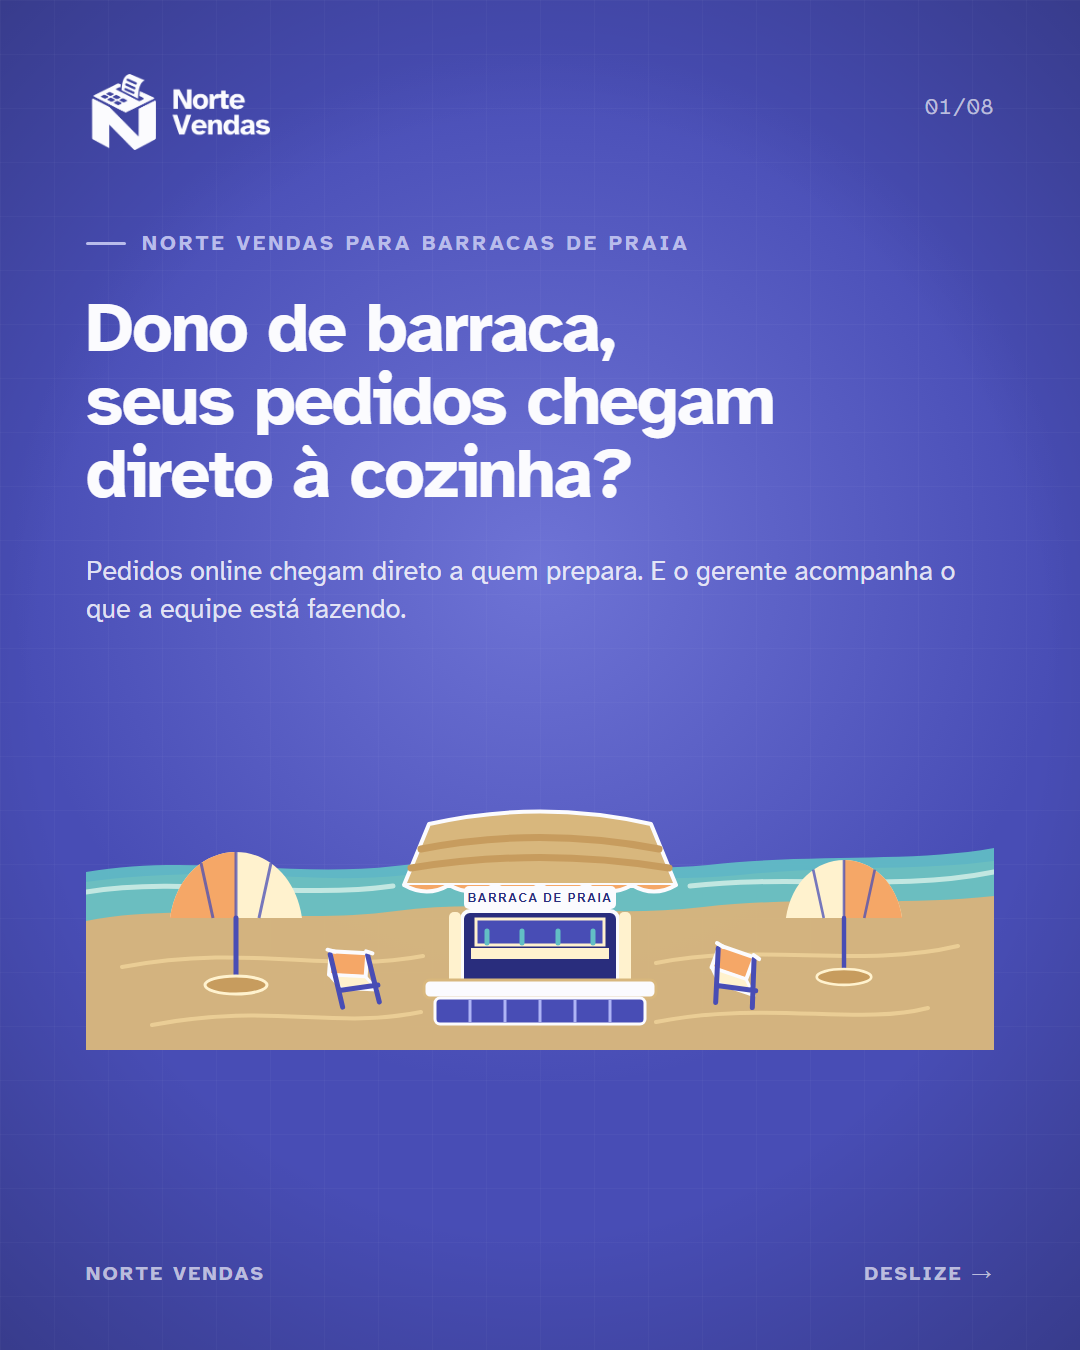
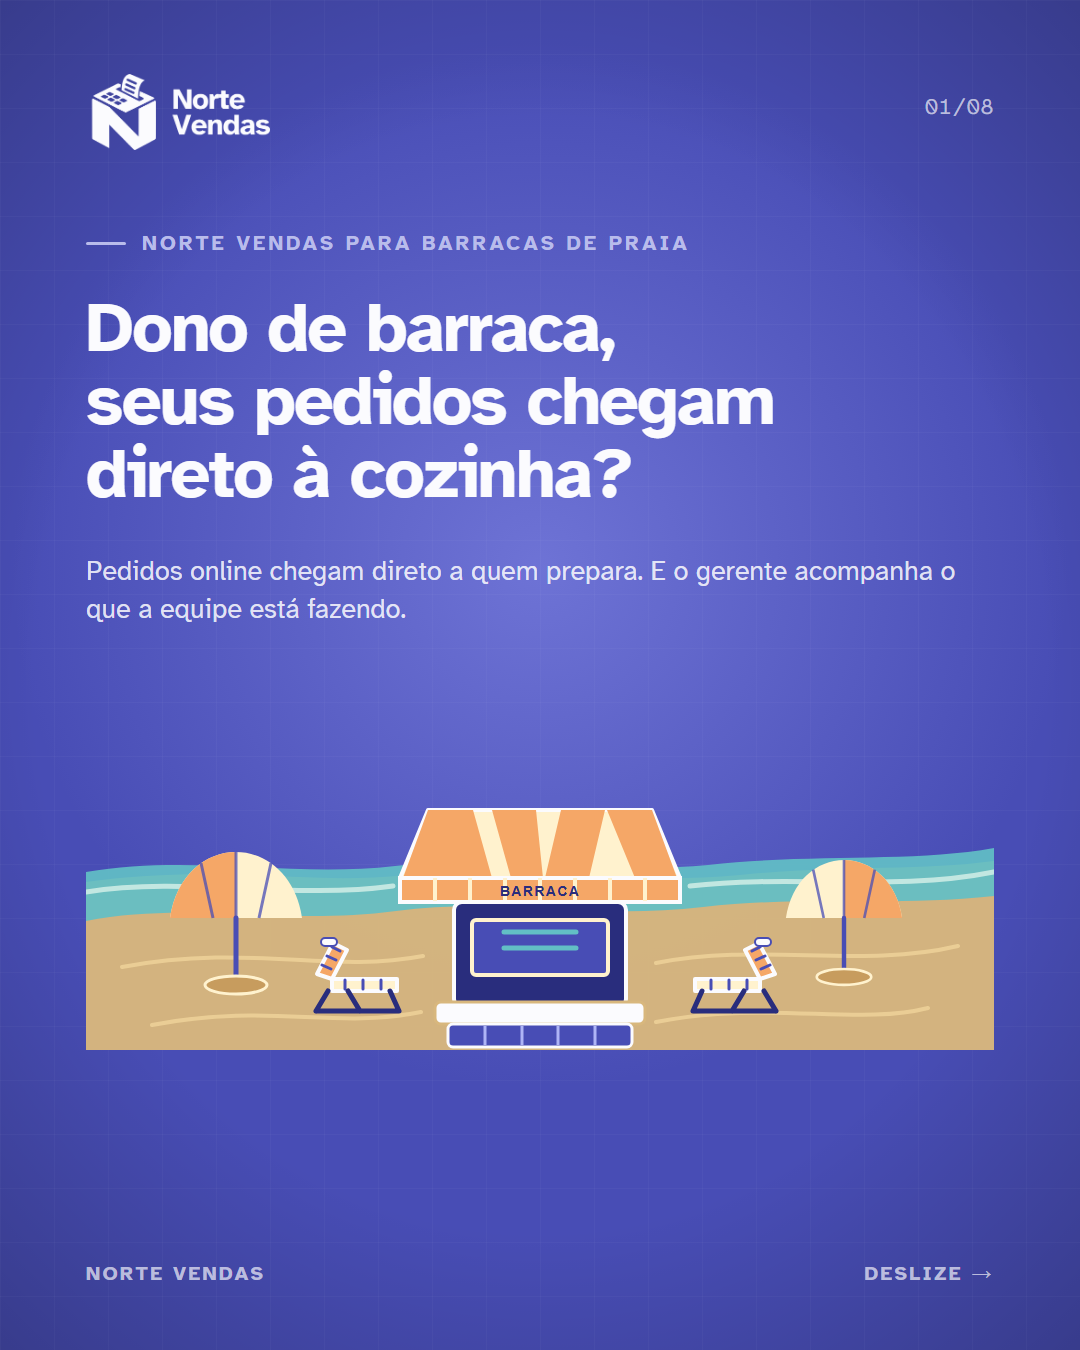
Refine beach illustrations for Vendas carousel

Changed region(s): [[0.3667, 0.5911, 0.6417, 0.7778], [0.6417, 0.6844, 0.7333, 0.7778], [0.275, 0.6844, 0.3667, 0.7778]]

diff --git a/src/templates/NorteVendasBarracaPraia.tsx b/src/templates/NorteVendasBarracaPraia.tsx
@@ -91,40 +91,39 @@ const BeachStandHero: React.FC = () => (
       <ellipse cx="0" cy="67" rx="31" ry="9" fill="#C79C5E" stroke="#FFF2CE" strokeWidth="3" />
     </g>
 
-    <g transform="translate(270 210) rotate(-8)" data-scene-object="beach-chair">
-      <path d="M-21-32L15-25L10-2L-26-9Z" fill="#F5A767" stroke="#FBFBFE" strokeWidth="4" strokeLinejoin="round" />
-      <path d="M-26-9L10-2L20 13L-16 6Z" fill="#FFF2CE" stroke="#FBFBFE" strokeWidth="3" strokeLinejoin="round" />
-      <path d="M-22-29L-17 25M15-23L20 25M-18 8H21" stroke="#484DB5" strokeWidth="5" strokeLinecap="round" />
-      <path d="M-24-34L-17-31M14-27L20-24" stroke="#FBFBFE" strokeWidth="4" strokeLinecap="round" />
+    <g transform="translate(270 208)" data-furniture="sun-lounger">
+      <path d="M-39-4L-23-35L-9-28L-24 1Z" fill="#F5A767" stroke="#FBFBFE" strokeWidth="4" strokeLinejoin="round" />
+      <path d="M-24 1H41V13H-24Z" fill="#FFF2CE" stroke="#FBFBFE" strokeWidth="4" strokeLinejoin="round" />
+      <path d="M-34-13L-25-9M-29-22L-20-18M-24-31L-16-27M-11 2V11M7 2V11M25 2V11" stroke="#484DB5" strokeWidth="3" strokeLinecap="round" />
+      <path d="M-28 13L-40 33M34 13L43 33M-40 33H43M-8 13L4 33" stroke="#292D7D" strokeWidth="5" strokeLinecap="round" />
+      <rect x="-35" y="-40" width="16" height="8" rx="4" fill="#FBFBFE" stroke="#484DB5" strokeWidth="2" />
     </g>
-    <g transform="translate(650 210) rotate(8)" data-scene-object="beach-chair">
-      <path d="M-21-32L15-25L10-2L-26-9Z" fill="#F5A767" stroke="#FBFBFE" strokeWidth="4" strokeLinejoin="round" />
-      <path d="M-26-9L10-2L20 13L-16 6Z" fill="#FFF2CE" stroke="#FBFBFE" strokeWidth="3" strokeLinejoin="round" />
-      <path d="M-22-29L-17 25M15-23L20 25M-18 8H21" stroke="#484DB5" strokeWidth="5" strokeLinecap="round" />
-      <path d="M-24-34L-17-31M14-27L20-24" stroke="#FBFBFE" strokeWidth="4" strokeLinecap="round" />
+    <g transform="translate(650 208) scale(-1 1)" data-furniture="sun-lounger">
+      <path d="M-39-4L-23-35L-9-28L-24 1Z" fill="#F5A767" stroke="#FBFBFE" strokeWidth="4" strokeLinejoin="round" />
+      <path d="M-24 1H41V13H-24Z" fill="#FFF2CE" stroke="#FBFBFE" strokeWidth="4" strokeLinejoin="round" />
+      <path d="M-34-13L-25-9M-29-22L-20-18M-24-31L-16-27M-11 2V11M7 2V11M25 2V11" stroke="#484DB5" strokeWidth="3" strokeLinecap="round" />
+      <path d="M-28 13L-40 33M34 13L43 33M-40 33H43M-8 13L4 33" stroke="#292D7D" strokeWidth="5" strokeLinecap="round" />
+      <rect x="-35" y="-40" width="16" height="8" rx="4" fill="#FBFBFE" stroke="#484DB5" strokeWidth="2" />
     </g>
 
     <g transform="translate(454 162)" data-scene-object="beach-stall-front">
-      <path d="M-136-47L-111-108Q0-133 111-108L136-47Z" fill="#D8B77D" stroke="#FBFBFE" strokeWidth="4" strokeLinejoin="round" />
-      <path d="M-119-83Q0-106 119-83M-129-64Q0-85 129-64" stroke="#C79C5E" strokeWidth="7" strokeLinecap="round" />
-      <path d="M-136-47Q-113-34-91-47Q-68-34-45-47Q-22-34 0-47Q23-34 46-47Q69-34 92-47Q114-34 136-47" fill="#F5A767" stroke="#FBFBFE" strokeWidth="4" strokeLinejoin="round" />
-      <rect x="-78" y="-21" width="156" height="82" rx="8" fill="#292D7D" stroke="#FBFBFE" strokeWidth="4" />
-      <path d="M-64-13H64V13H-64Z" fill="#484DB5" stroke="#FFF2CE" strokeWidth="3" />
-      <path d="M-69 16H69V27H-69Z" fill="#FFF2CE" />
-      <path d="M-53 11V-1M-18 11V-1M18 11V-1M53 11V-1" stroke="#62BFC5" strokeWidth="5" strokeLinecap="round" />
-      <rect x="-91" y="-20" width="12" height="80" rx="5" fill="#FFF2CE" />
-      <rect x="79" y="-20" width="12" height="80" rx="5" fill="#FFF2CE" />
-      <rect x="-116" y="48" width="232" height="18" rx="6" fill="#FBFBFE" stroke="#D8B77D" strokeWidth="3" />
-      <rect x="-105" y="66" width="210" height="26" rx="5" fill="#484DB5" stroke="#FBFBFE" strokeWidth="3" />
-      <path d="M-70 68V90M-35 68V90M0 68V90M35 68V90M70 68V90" stroke="#AEB4F6" strokeWidth="3" />
-      <rect x="-76" y="-46" width="152" height="23" rx="5" fill="#FBFBFE" />
-      <text x="0" y="-30" textAnchor="middle" fontFamily="Arial, sans-serif" fontSize="12" fontWeight="700" letterSpacing="1.5" fill="#292D7D">BARRACA DE PRAIA</text>
+      <path d="M-140-54L-112-122H112L140-54Z" fill="#FFF2CE" stroke="#FBFBFE" strokeWidth="4" strokeLinejoin="round" data-roof="striped-awning" />
+      <path d="M-112-122H-67L-48-54H-137ZM-48-122H-4L3-54H-29ZM21-122H65L49-54H5ZM67-122H112L137-54H95Z" fill="#F5A767" />
+      <path d="M-140-54H140V-30H-140Z" fill="#F5A767" stroke="#FBFBFE" strokeWidth="4" />
+      <path d="M-105-54V-31M-70-54V-31M-35-54V-31M0-54V-31M35-54V-31M70-54V-31M105-54V-31" stroke="#FFF2CE" strokeWidth="4" />
+      <text x="0" y="-36" textAnchor="middle" fontFamily="Arial, sans-serif" fontSize="14" fontWeight="700" letterSpacing="1.4" fill="#292D7D">BARRACA</text>
+      <rect x="-86" y="-30" width="172" height="105" rx="8" fill="#292D7D" stroke="#FBFBFE" strokeWidth="4" />
+      <rect x="-68" y="-12" width="136" height="55" rx="4" fill="#484DB5" stroke="#FFF2CE" strokeWidth="4" />
+      <path d="M-36 0H36M-36 16H36" stroke="#62BFC5" strokeWidth="5" strokeLinecap="round" />
+      <rect x="-105" y="70" width="210" height="22" rx="6" fill="#FBFBFE" stroke="#D8B77D" strokeWidth="3" />
+      <rect x="-92" y="92" width="184" height="23" rx="5" fill="#484DB5" stroke="#FBFBFE" strokeWidth="3" />
+      <path d="M-55 94V113M-18 94V113M18 94V113M55 94V113" stroke="#AEB4F6" strokeWidth="3" />
     </g>
   </svg>
 );
 
 const BeachAreaMap: React.FC = () => (
-  <svg width="100%" height="100%" viewBox="0 0 908 470" fill="none" xmlns="http://www.w3.org/2000/svg" aria-label="Vista ilustrada das mesas espalhadas pela barraca até a cozinha" style={{display: 'block'}}>
+  <svg width="100%" height="100%" viewBox="0 0 908 470" fill="none" xmlns="http://www.w3.org/2000/svg" aria-label="Vista ilustrada das mesas e guarda-sóis com pedidos seguindo para a cozinha" style={{display: 'block'}}>
     <defs>
       <clipPath id="beach-area-boundary"><rect x="24" y="22" width="860" height="426" rx="22" /></clipPath>
     </defs>
@@ -135,19 +134,16 @@ const BeachAreaMap: React.FC = () => (
       <path d="M44 115C170 91 280 113 396 101C533 86 663 111 856 94" stroke="#F2D59A" strokeWidth="3" strokeDasharray="7 13" opacity=".9" />
       <path d="M44 410C154 392 245 412 347 400M566 405C686 390 765 411 858 390" stroke="#F2D59A" strokeWidth="3" strokeDasharray="7 13" opacity=".9" />
 
-      <path d="M166 178C300 184 487 224 747 312" stroke="#484DB5" strokeWidth="5" strokeDasharray="8 12" opacity=".8" />
-      <path d="M181 331C319 328 511 309 747 312" stroke="#484DB5" strokeWidth="5" strokeDasharray="8 12" opacity=".8" />
-      <path d="M366 133C473 172 602 255 747 312" stroke="#484DB5" strokeWidth="5" strokeDasharray="8 12" opacity=".8" />
-      <path d="M438 329C542 333 648 317 747 312" stroke="#484DB5" strokeWidth="5" strokeDasharray="8 12" opacity=".8" />
+      <path d="M250 184C369 184 536 207 766 248M300 292C418 287 585 270 766 248M436 169C536 187 652 220 766 248M558 334C636 307 714 269 766 248" stroke="#484DB5" strokeWidth="5" strokeDasharray="8 12" opacity=".8" />
 
       {[
-        {x: 166, y: 178, r: 39},
-        {x: 288, y: 319, r: 37},
-        {x: 366, y: 133, r: 34},
-        {x: 438, y: 329, r: 36},
+        {x: 250, y: 184, r: 39},
+        {x: 300, y: 292, r: 37},
+        {x: 436, y: 169, r: 34},
+        {x: 558, y: 334, r: 36},
       ].map(({x, y, r}, index) => (
         <g key={`${x}-${y}`} transform={`translate(${x} ${y})`}>
-          <g data-scene-object="beach-umbrella">
+          <g data-scene-object="beach-umbrella" data-zone="middle-sand">
             <circle r={r} fill="#FFF2CE" stroke="#484DB5" strokeWidth="3" />
             <path d={`M0 0L0 ${-r}A${r} ${r} 0 0 1 ${r} 0Z`} fill="#F5A767" />
             <path d={`M0 0L0 ${r}A${r} ${r} 0 0 1 ${-r} 0Z`} fill="#F5A767" />
@@ -171,19 +167,12 @@ const BeachAreaMap: React.FC = () => (
         </g>
       ))}
 
-      <g transform="translate(747 237)" data-scene-object="overhead-beach-stall">
-        <rect x="-111" y="-96" width="222" height="179" rx="12" fill="#C79C5E" stroke="#FBFBFE" strokeWidth="5" />
-        <path d="M-96-81H96V-5H-96Z" fill="#D8B77D" />
-        <path d="M-88-72V-15M-66-72V-15M-44-72V-15M-22-72V-15M0-72V-15M22-72V-15M44-72V-15M66-72V-15M88-72V-15" stroke="#B58A50" strokeWidth="3" opacity=".82" />
-        <path d="M-96-5H96V29H-96Z" fill="#292D7D" />
-        <rect x="-65" y="-88" width="130" height="28" rx="6" fill="#FBFBFE" />
-        <text x="0" y="-69" textAnchor="middle" fontFamily="Arial, sans-serif" fontSize="14" fontWeight="700" letterSpacing="1.6" fill="#292D7D">BARRACA</text>
-        <rect x="-111" y="29" width="222" height="38" rx="5" fill="#FBFBFE" stroke="#484DB5" strokeWidth="4" data-scene-object="service-counter" />
-        <rect x="-76" y="37" width="152" height="23" rx="4" fill="#F5A767" data-scene-object="order-window" />
-        <path d="M-53 43V55M-26 43V55M0 43V55M26 43V55M53 43V55" stroke="#292D7D" strokeWidth="3" />
-        <rect x="-19" y="67" width="38" height="17" rx="3" fill="#484DB5" />
-        <path d="M-9 84V92M9 84V92" stroke="#FBFBFE" strokeWidth="4" strokeLinecap="round" />
-        <circle cx="89" cy="13" r="6" fill="#62BFC5" />
+      <g transform="translate(766 248)" data-scene-object="kitchen-route-endpoint">
+        <rect x="-58" y="-34" width="116" height="68" rx="12" fill="#FBFBFE" stroke="#484DB5" strokeWidth="4" />
+        <rect x="-40" y="-16" width="19" height="31" rx="3" fill="#F5A767" />
+        <path d="M-34-8H-27M-34-1H-27M-34 6H-27" stroke="#FBFBFE" strokeWidth="2" strokeLinecap="round" />
+        <text x="6" y="3" textAnchor="middle" fontFamily="Arial, sans-serif" fontSize="13" fontWeight="700" letterSpacing="1" fill="#292D7D">COZINHA</text>
+        <circle cx="43" cy="-20" r="4" fill="#62BFC5" />
       </g>
     </g>
   </svg>
